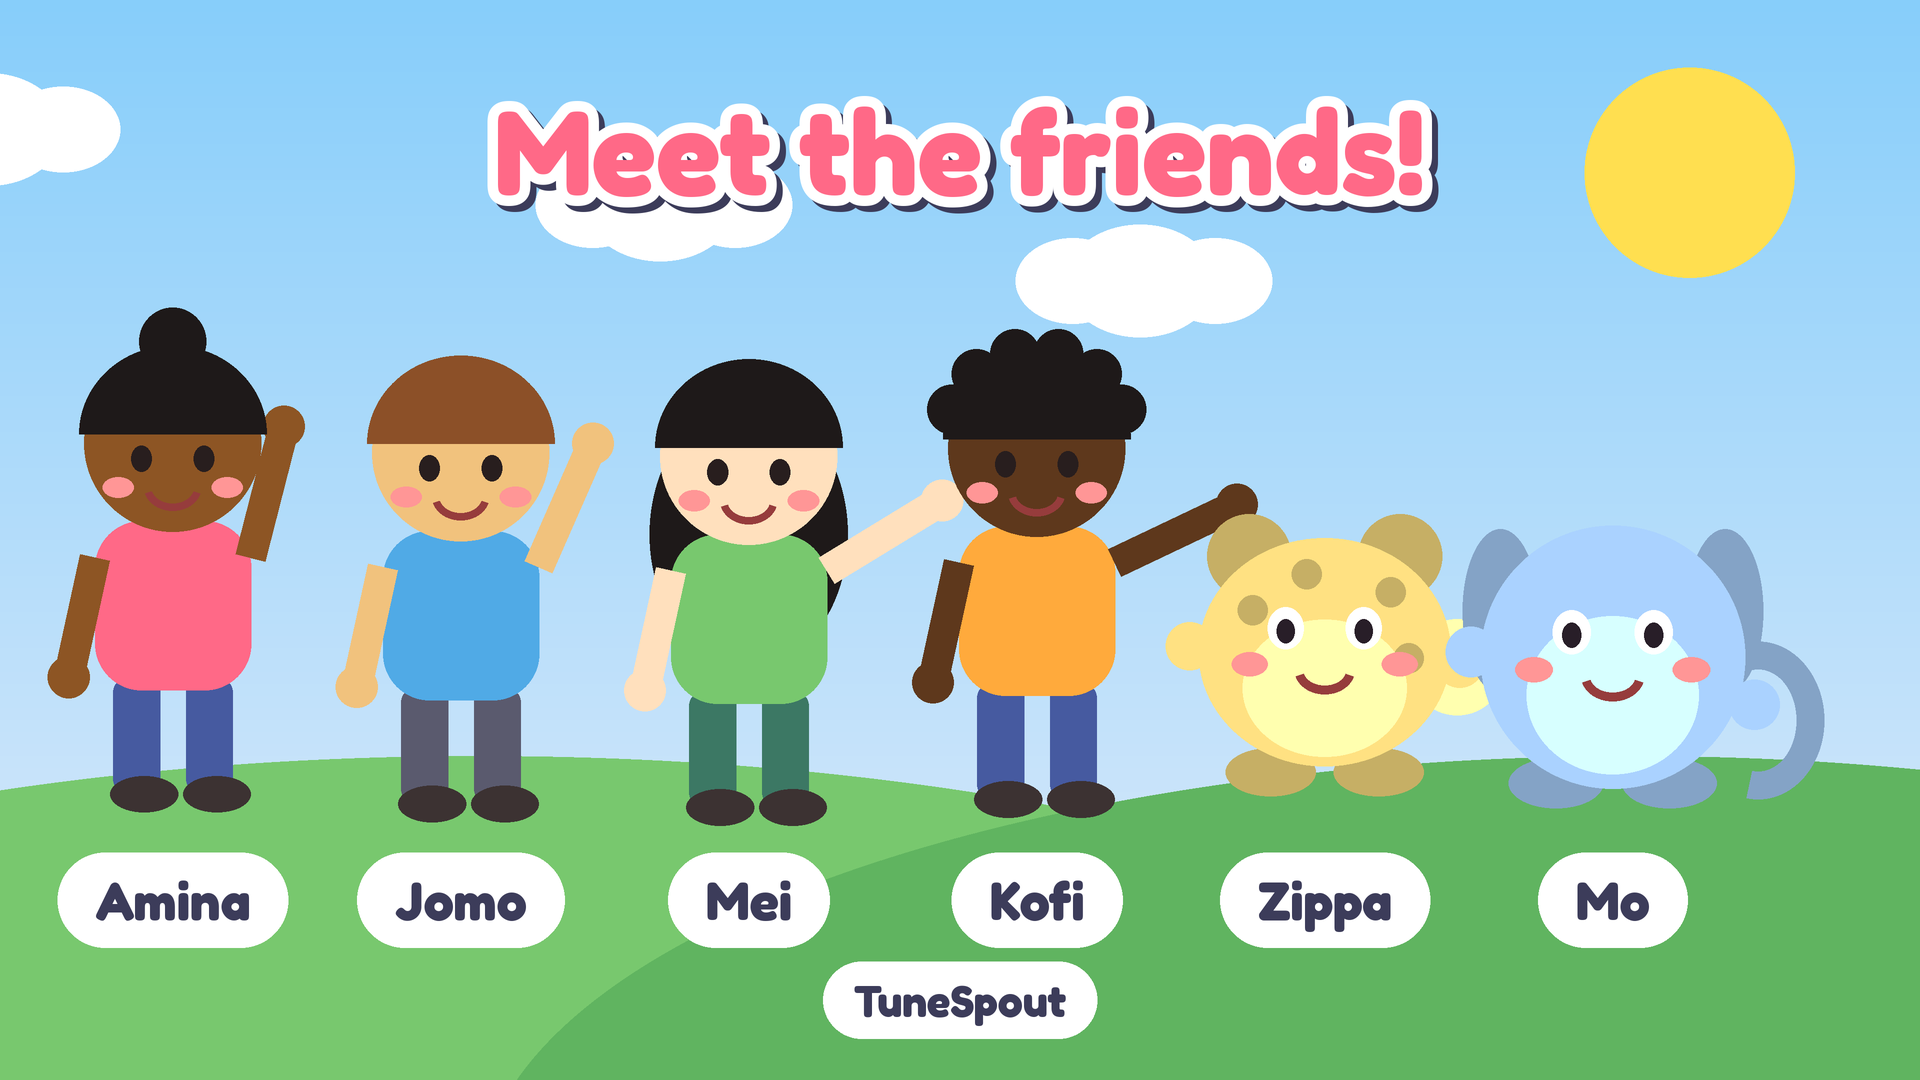
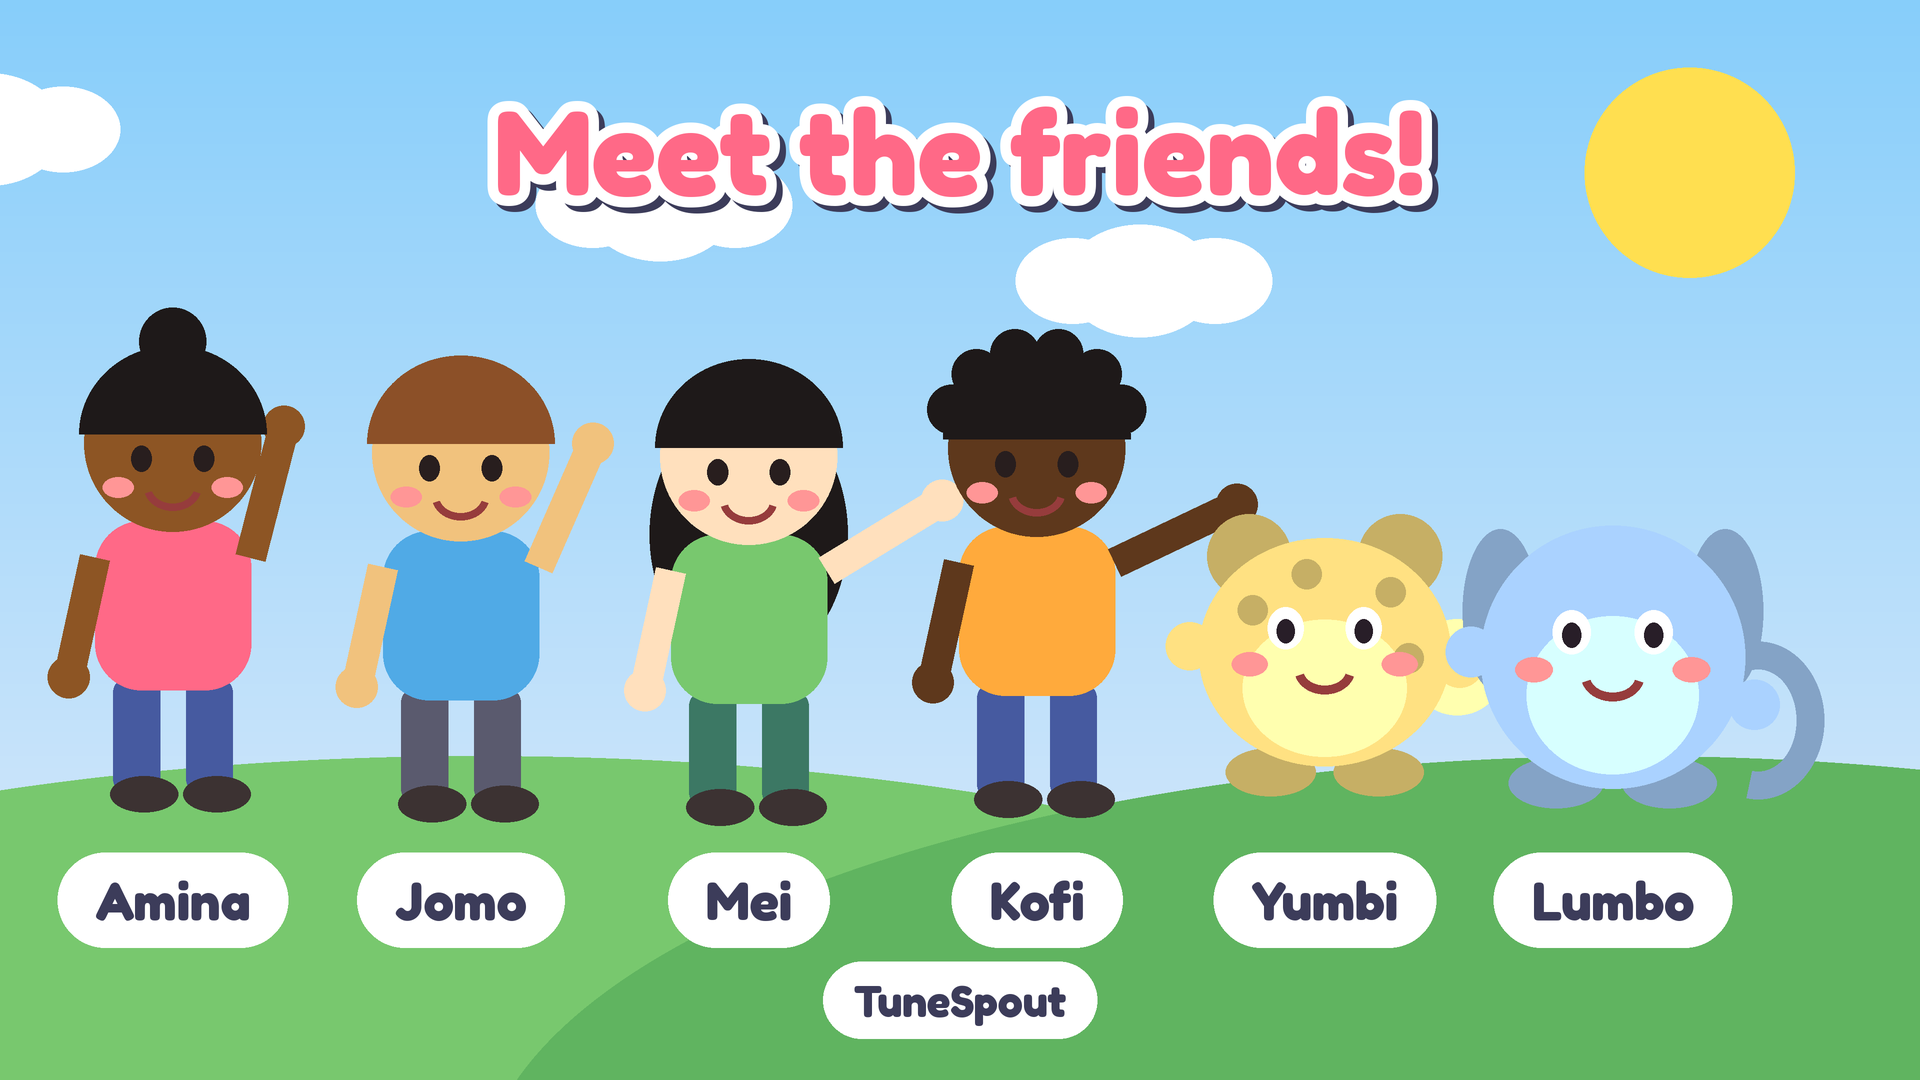
Rename cast animals: Zippa to Yumbi, Mo to Lumbo
Claude-Session: https://claude.ai/code/session_01PkwhTVXqQ97cJmTUXH9wgC

Changed region(s): [[0.7812, 0.7639, 0.9062, 0.8861], [0.625, 0.7944, 0.75, 0.8556]]

diff --git a/src/kids_scene.py b/src/kids_scene.py
@@ -5,7 +5,7 @@ Scene keys (all optional except line):
   items:    {type, count, split:[group sizes], new_from, ghost, scale, types}
             scale makes each thing bigger (1 = counting size); types gives one thing per group
   equation: big text banner, e.g. "2 + 3 = 5"
-  pals:     animal friends: {"cast": "zippa"} for a cast animal, or {"seed": n} for an invented one
+  pals:     animal friends: {"cast": "yumbi"} for a cast animal, or {"seed": n} for an invented one
   extras:   small background kids (no names), drawn behind the main kids
   cheer:    true to make the kids jump for joy
   line:     the sentence spoken and shown on screen

diff --git a/src/branding.py b/src/branding.py
@@ -184,7 +184,7 @@ def banner(w=2560, h=1440):
     # characters stand outside the safe area, on the hills
     for x, kid, ph in ((210, BRAND_KIDS[0], 0.0), (2350, BRAND_KIDS[1], 1.0)):
         draw_kid(d, x * K, 1335 * K, 2.2 * K, 0.5, ph, cheer=True, **kid)
-    for x, key in ((480, "zippa"), (2080, "mo")):
+    for x, key in ((480, "yumbi"), (2080, "lumbo")):
         draw_creature(d, x * K, 1340 * K, 2.4 * K, 0.5, x, pal_genome({"cast": key}))
     # centre: mascot on a cloud, name and tagline (all inside the safe area)
     for dx, rx, ry in ((-95, 95, 34), (0, 130, 44), (100, 100, 34)):

diff --git a/src/characters/cast.py b/src/characters/cast.py
@@ -18,9 +18,9 @@ CAST_KIDS = [
 
 # Two friendly animal pals who join every lesson.
 CAST_ANIMALS = {
-    "zippa": {"name": "Zippa", "body": (255, 225, 130), "ears": "round", "tail": "puff",
+    "yumbi": {"name": "Yumbi", "body": (255, 225, 130), "ears": "round", "tail": "puff",
             "pattern": "spots", "scale": 1.0, "tall": 1.0},
-    "mo": {"name": "Mo", "body": (170, 210, 255), "ears": "floppy", "tail": "curl",
+    "lumbo": {"name": "Lumbo", "body": (170, 210, 255), "ears": "floppy", "tail": "curl",
            "pattern": "none", "scale": 1.05, "tall": 1.1},
 }
 

diff --git a/README.md b/README.md
@@ -63,7 +63,7 @@ To add a new object, add one entry to `LIBRARY` (see the shape format at the top
 `animalsounds` (what the cow says) and `babyanimals` (a baby cow is a calf) use nine drawn farm animals: dog, cat, cow, duck, sheep, pig, chicken, horse and frog. Add more in `src/characters/animals.py` with their sound and baby name.
 
 ## The cast
-Four main kids (Amina, Jomo, Mei, Kofi) and two animal friends (Zippa and Mo) appear in every video, always looking the same. Two to three kids from the cast lead each lesson. Two small background kids with random looks stand behind them: these are extras, made fresh for each video. To change the cast, edit `src/characters/cast.py`. `branding/cast.png` is a picture of everyone for channel art.
+Four main kids (Amina, Jomo, Mei, Kofi) and two animal friends (Yumbi and Lumbo) appear in every video, always looking the same. Two to three kids from the cast lead each lesson. Two small background kids with random looks stand behind them: these are extras, made fresh for each video. To change the cast, edit `src/characters/cast.py`. `branding/cast.png` is a picture of everyone for channel art.
 
 ## Branding
 The channel brand (name **TuneSpout**, mascot Spout, colors, Fredoka font, bios) is in `branding/BRAND.md`. Ready-to-upload images are in `branding/`: profile picture (YouTube and TikTok), YouTube banner and watermark, and a TikTok cover. Regenerate them with `python tools/make_brand_assets.py`. Every video also gets its own thumbnail (`out/thumbnail.png`, 1280x720), built from the lesson's kids and objects and set on YouTube after upload.
